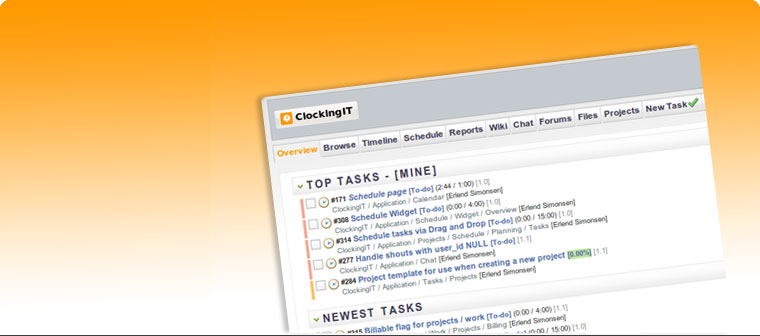
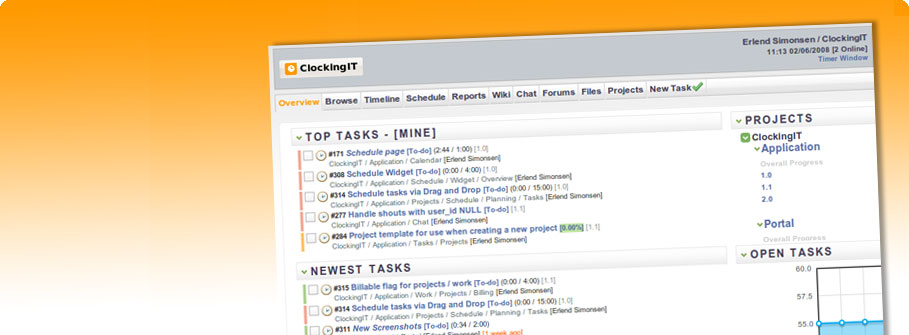
2nd version of new portal

diff --git a/public/stylesheets/portal.css b/public/stylesheets/portal.css
@@ -1,5 +1,5 @@
 body {
-  background: #E3E7EA;
+  background: #e8e8e8;
   margin: 0;
   padding: 0;
   font: 10.5pt/1.3em "Trebuchet MS", Trebuchet, Helvetica, Arial;
@@ -32,7 +32,7 @@ ul li {
 /* FRAME */
 
 #wrapper{
-  width: 820px;
+  width: 970px;
   background:transparent url(/images/portal/shadow.gif) repeat-y scroll center top !important;
   margin: 0 auto;
 }
@@ -41,18 +41,18 @@ ul li {
   font-size: 106%; 
   text-decoration: none;
   color: #FCFCFC;
-  width: 780px;
+  width: 930px;
   margin-left:30px;
 }
 
 .logo {
-  margin: 50px 0 0 0;
+  margin: 20px 0 0 0;
 }
 
 a.menu_top{
 color: #000;
 text-decoration: none;
-padding: 50px 40px 0 0;
+margin: 50px 40px 0 0;
 font-weight:bold;
 float:right;
 }
@@ -60,23 +60,35 @@ float:right;
 a.menu_top_sign{
 color: #FF9900;
 text-decoration: none;
-padding: 50px 40px 0 0;
+margin: 50px 40px 0 0;
 font-weight:bold;
 float:right;
 }
+
+#top a:hover { 
+  text-decoration: underline;
+}
+
 .menu_white{
-color: #FFF;
-font-size: 1.2em; 
-font-weight:bold;
-padding-right: 20px;
-text-align:center;
+  color: #FFF;
+  font-size: 1.2em; 
+  font-weight:bold;
+  padding-right: 20px;
+  text-align:center;
 }
 
 .text_white{
-color: #FFF;
-font-size: 1.3em; 
-font-weight:bold;
-margin: 20px 20px 20px 20px;
+  color: #FFF;
+  font-size: 1.3em; 
+  font-weight:bold;
+  margin: 20px 20px 20px 20px;
+}
+
+.text_white_small{
+  color: #FFF;
+  font-size: 0.8em; 
+  font-weight:normal;
+  margin:0;
 }
 
 .text_black{

diff --git a/app/controllers/application.rb b/app/controllers/application.rb
@@ -18,7 +18,7 @@ class ApplicationController < ActionController::Base
   helper_method :worked_nice
 
   before_filter :authorize, :except => [ :login, :validate, :signup, :take_signup, :forgotten_password,
-                                         :take_forgotten, :show_logo, :about, :screenshots, 
+                                         :take_forgotten, :show_logo, :about, :screenshots, :terms, :policy,
                                          :company_check, :subdomain_check, :unsubscribe, :shortlist_auth,
                                          :igoogle_setup, :igoogle
                                        ]

diff --git a/config/routes.rb b/config/routes.rb
@@ -4,6 +4,9 @@ ActionController::Routing::Routes.draw do |map|
 
   map.connect '/signup', :controller => 'login', :action => 'signup'
   map.connect '/screenshots', :controller => 'login', :action => 'screenshots'
+  map.connect '/policy', :controller => 'login', :action => 'policy'
+  map.connect '/terms', :controller => 'login', :action => 'terms'
+  map.connect '/about', :controller => 'login', :action => 'about'
   
   map.home '/forums/index', :controller => 'forums', :action => 'index'
 

diff --git a/app/controllers/login_controller.rb b/app/controllers/login_controller.rb
@@ -14,7 +14,16 @@ class LoginController < ApplicationController
 
   def screenshots
   end
+
+  def policy
+  end
+
+  def terms
+  end
   
+  def about
+  end
+
   def login
     subdomain = 'www'
     subdomain = request.subdomains.first if request.subdomains
